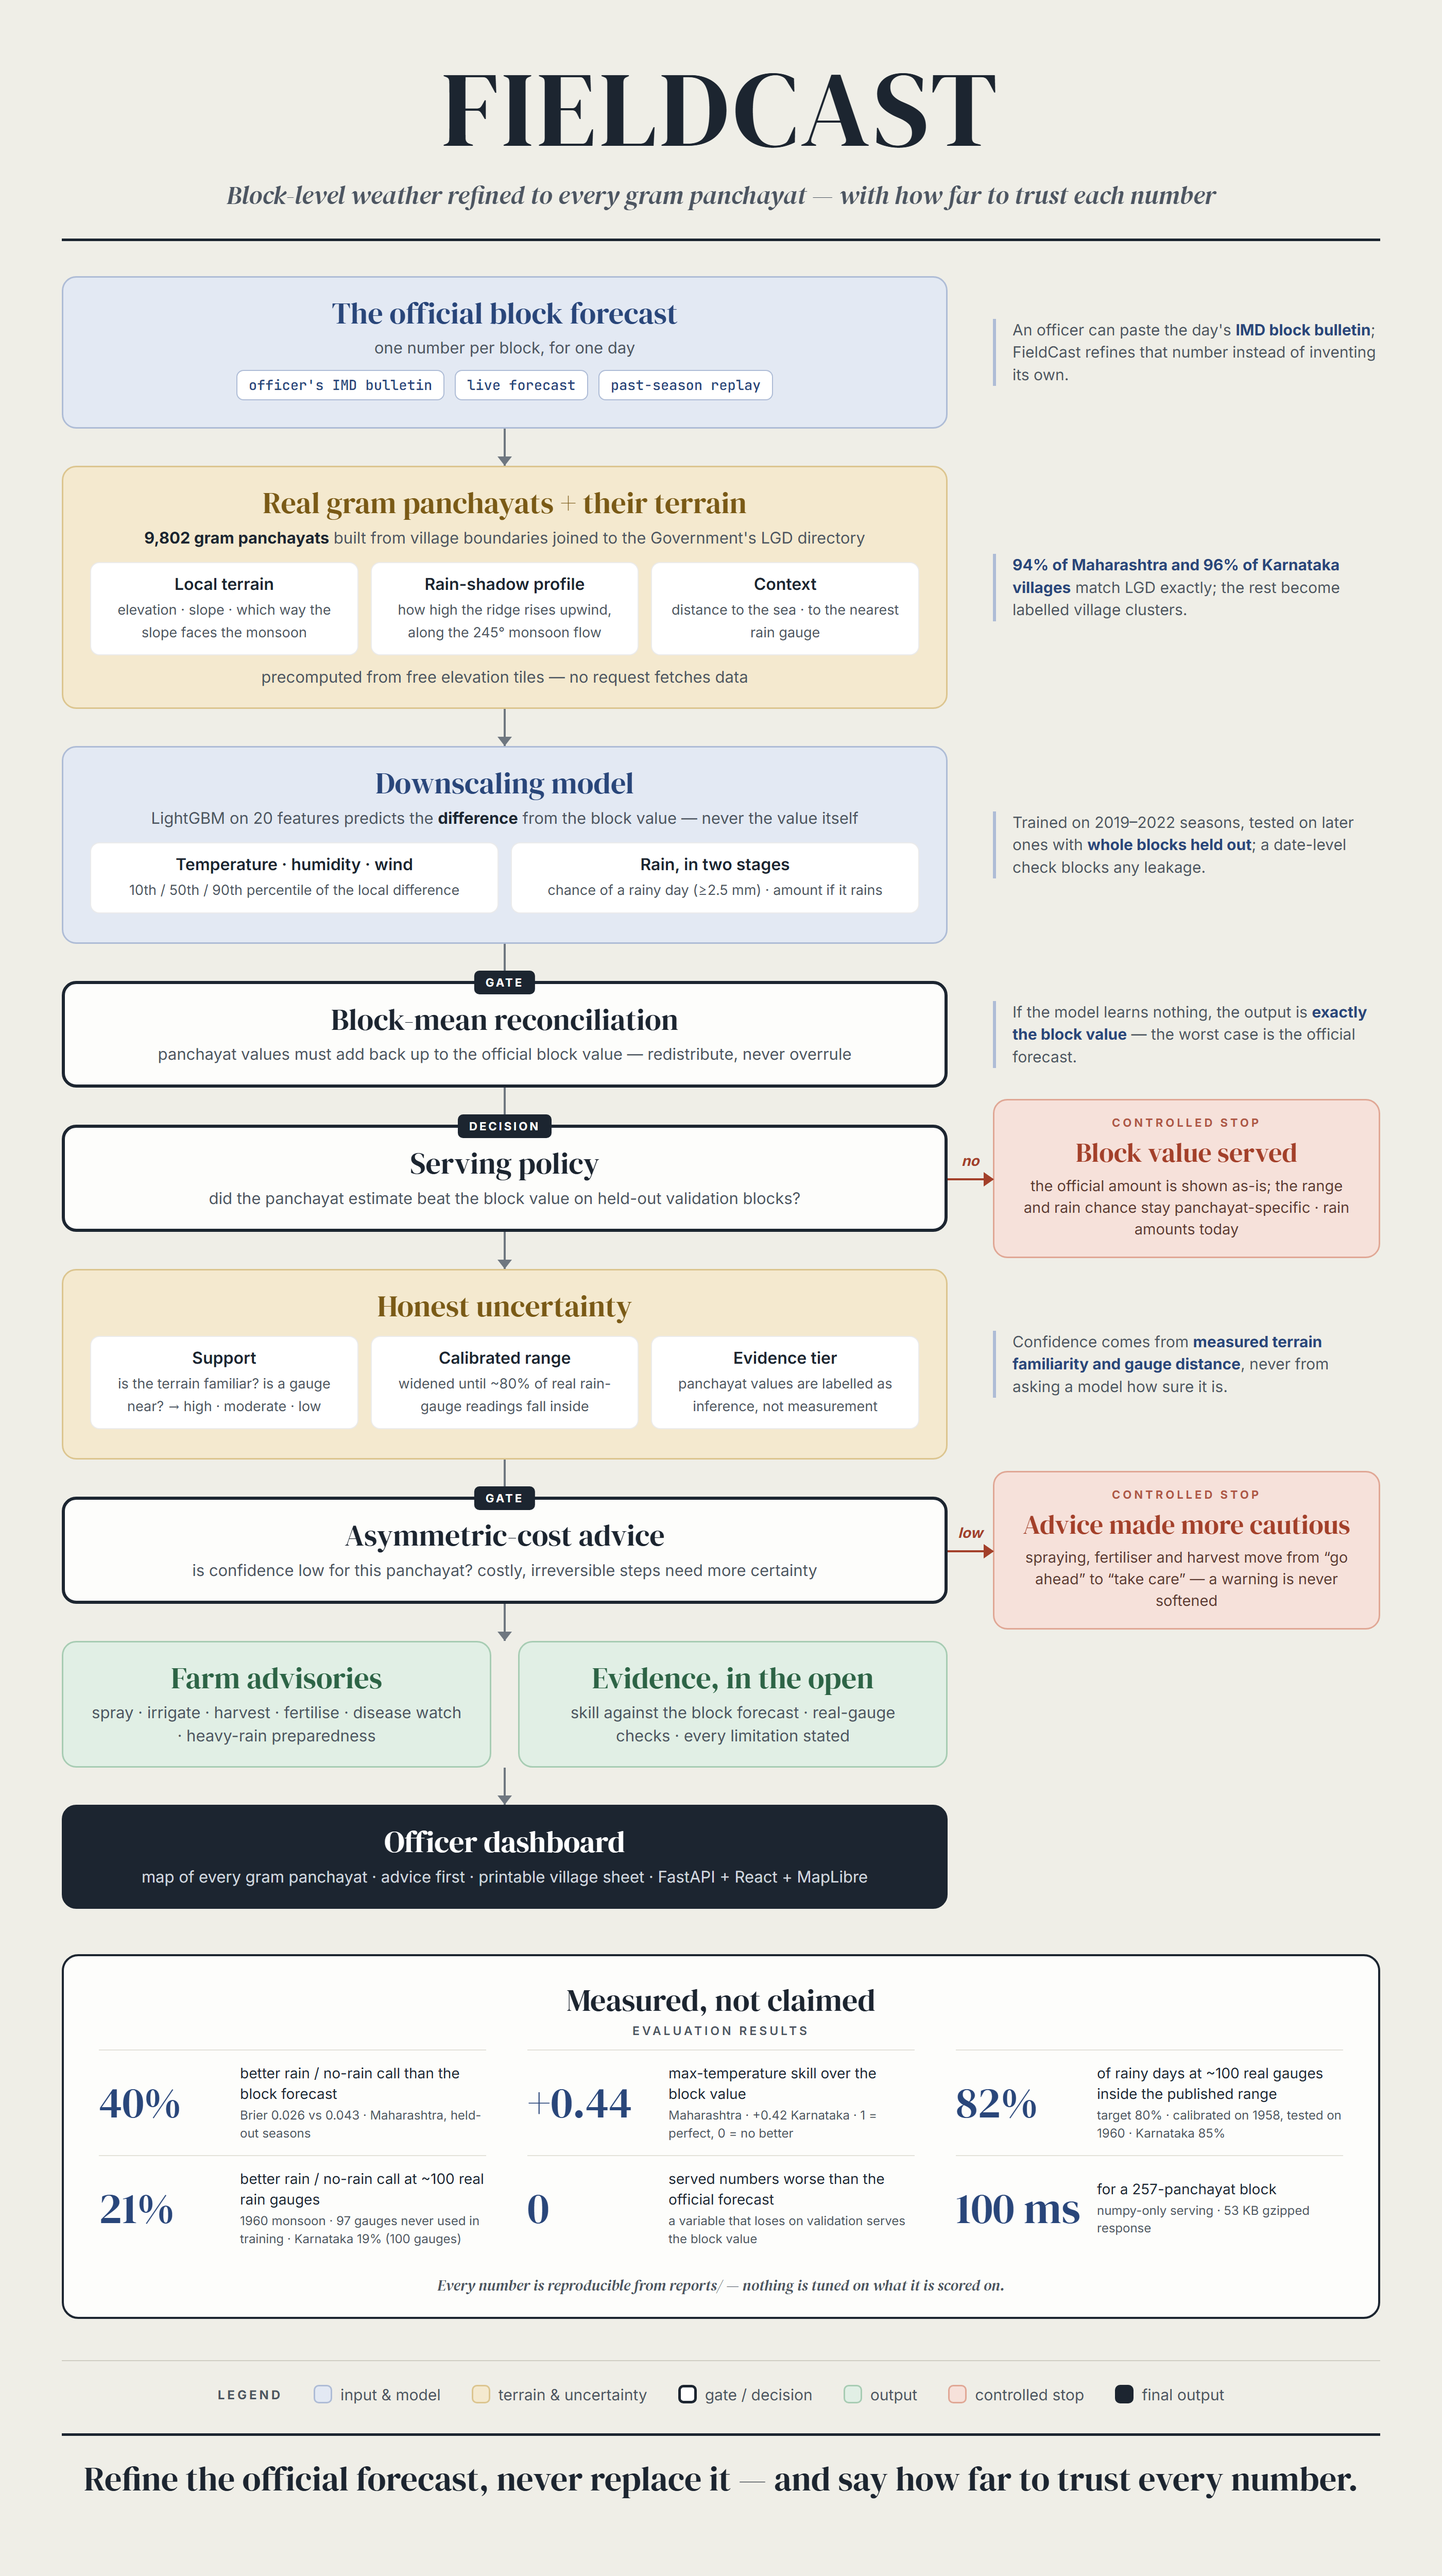
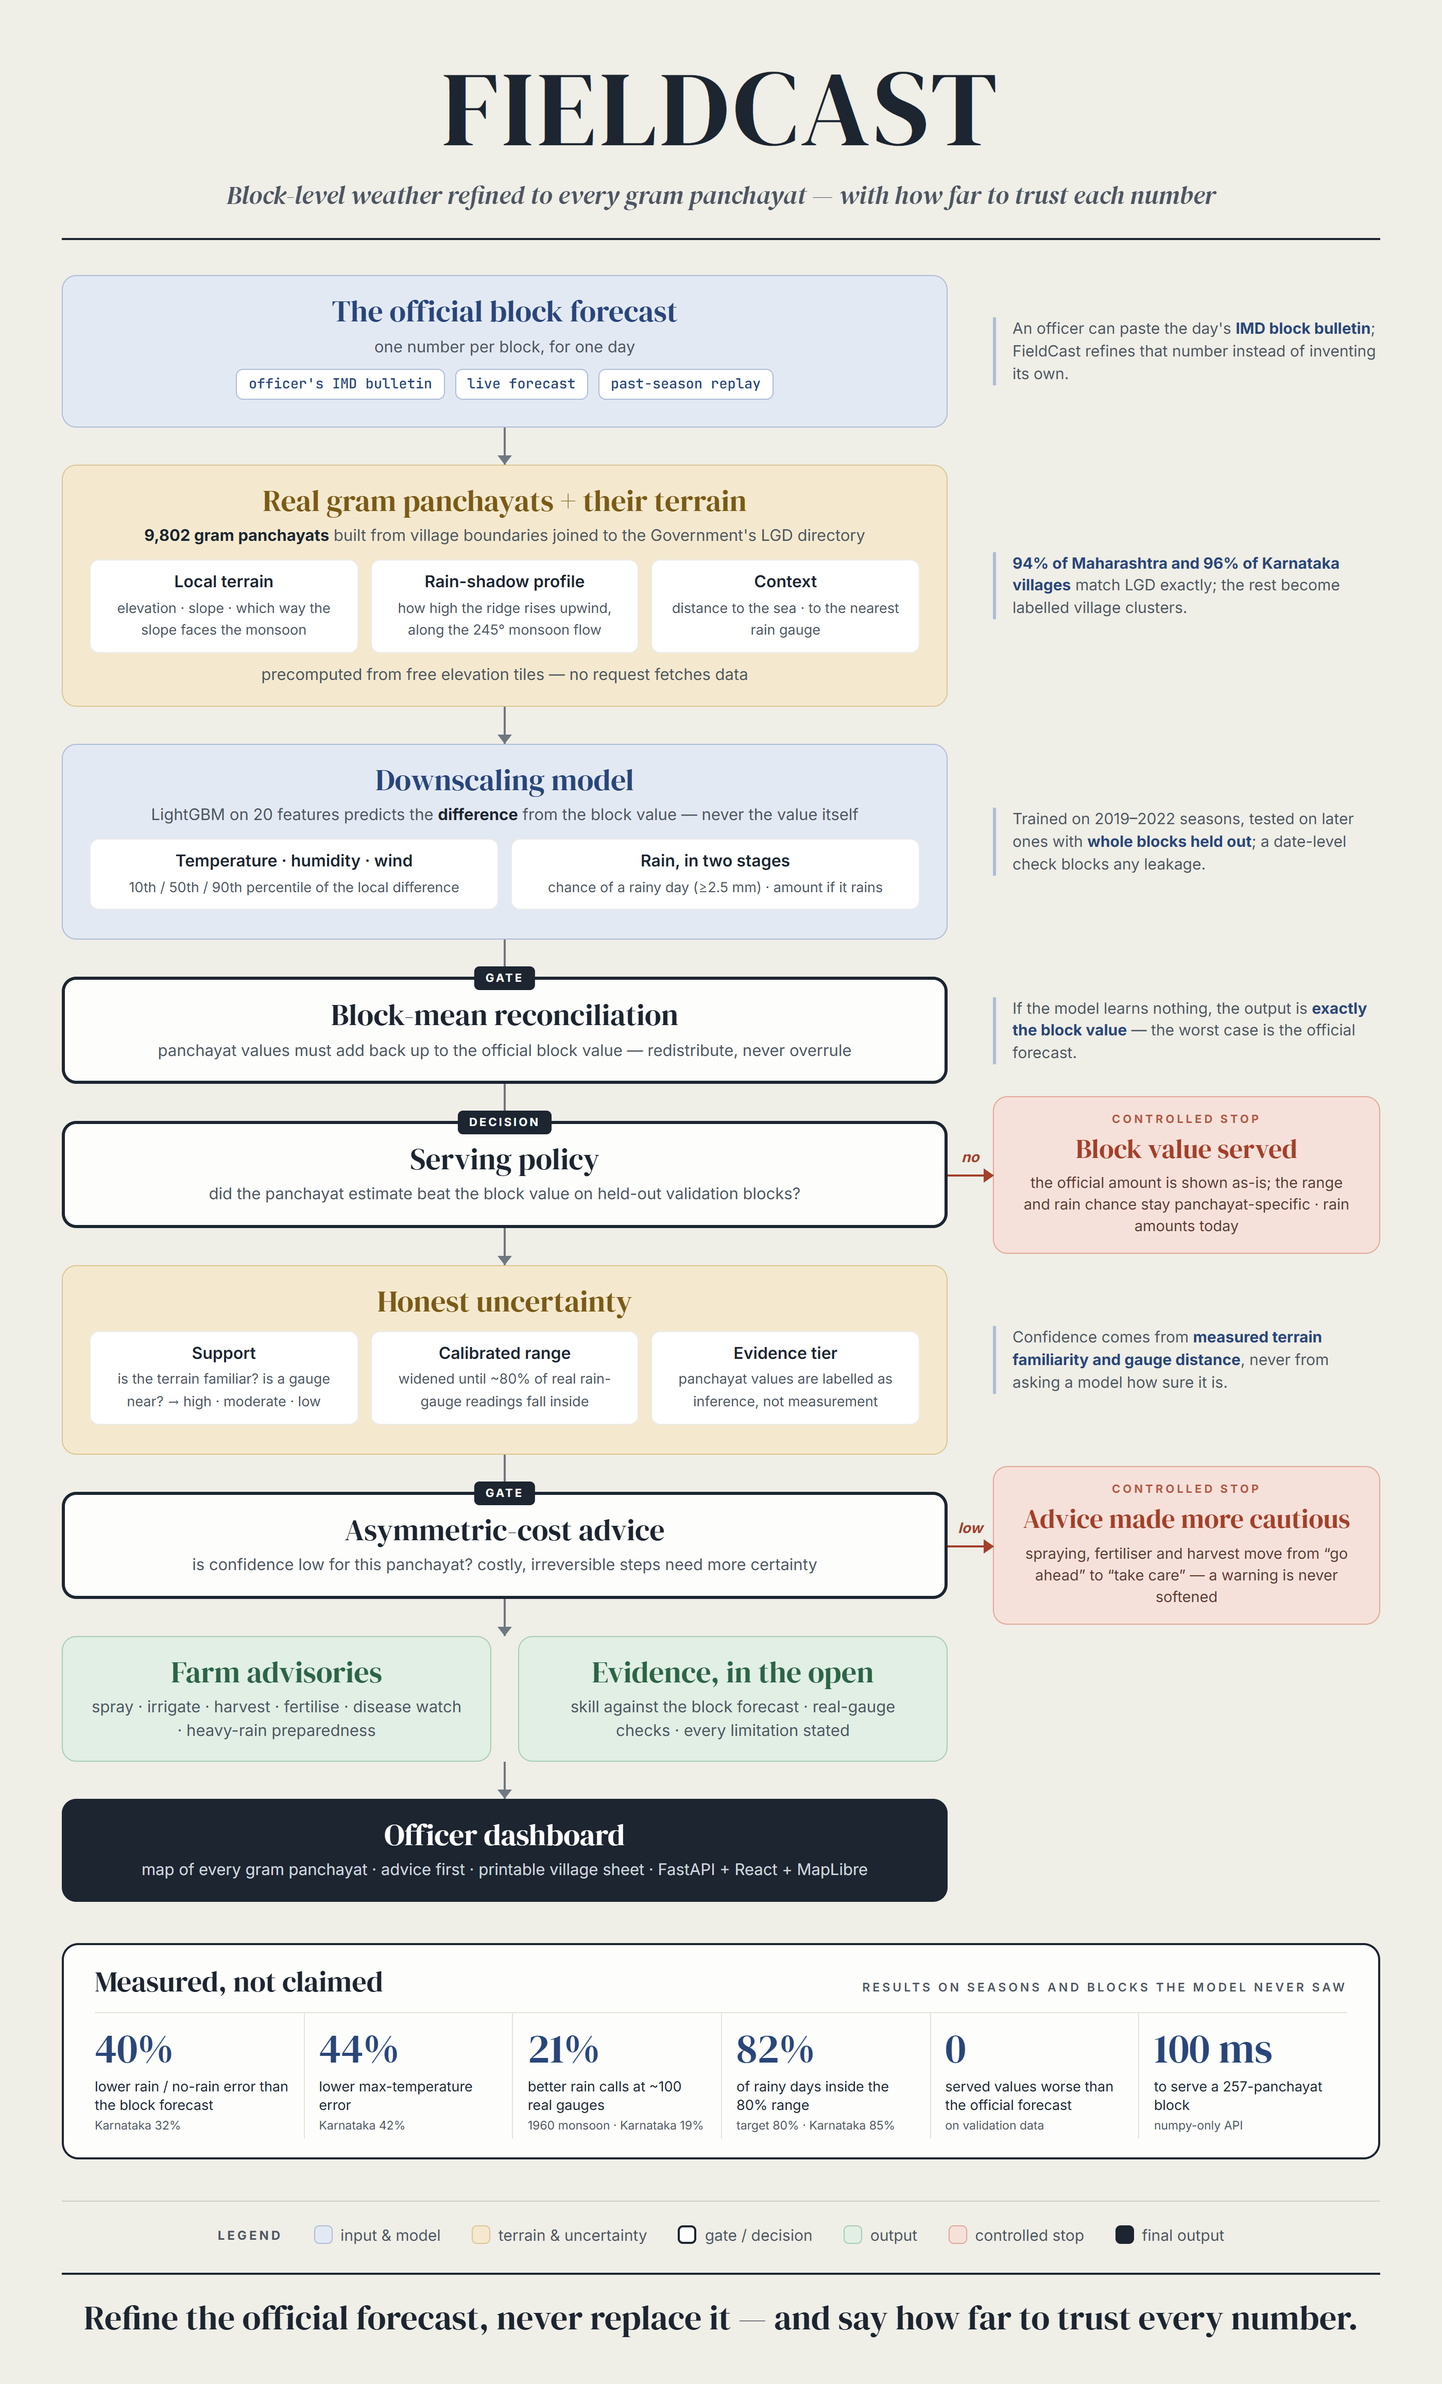
Compact the flowchart's results panel into one row
Six plain-language tiles in the post's wording (e.g. 44% lower
max-temperature error instead of +0.44 skill), and render at the page's
exact height so the poster has no blank tail.

diff --git a/docs/flowchart/fieldcast-flowchart.html b/docs/flowchart/fieldcast-flowchart.html
@@ -64,15 +64,16 @@
   .pair { display: grid; grid-template-columns: 1fr 1fr; gap: 26px; }
 
   /* Right column */
-  .measured { margin-top: 44px; background: var(--white); border: 2px solid var(--ink); border-radius: 16px; padding: 26px 34px 20px; }
-  .stats { display: grid; grid-template-columns: repeat(3, 1fr); column-gap: 40px; }
-  .measured h3 { font: 400 30px/1.1 "DM Serif Display", Georgia, serif; text-align: center; }
-  .measured .kicker { text-align: center; font: 600 11.5px/1 Inter; letter-spacing: 2.5px; color: var(--muted); margin: 8px 0 12px; }
-  .stat { display: grid; grid-template-columns: 125px 1fr; align-items: center; gap: 12px; padding: 12px 0; border-top: 1px solid #e3e2da; }
-  .stat .n { font: 400 42px/1 "DM Serif Display", Georgia, serif; color: var(--blue-ink); }
-  .stat .d { font-size: 14px; color: var(--ink); }
-  .stat .d small { display: block; color: var(--muted); font-size: 12px; margin-top: 2px; }
-  .note { margin-top: 14px; text-align: center; font: italic 15px/1.4 "DM Serif Display", Georgia, serif; color: var(--muted); }
+  .measured { margin-top: 40px; background: var(--white); border: 2px solid var(--ink); border-radius: 16px; padding: 20px 30px 18px; }
+  .measured-head { display: flex; align-items: baseline; justify-content: space-between; gap: 20px; margin-bottom: 14px; }
+  .measured h3 { font: 400 28px/1.1 "DM Serif Display", Georgia, serif; }
+  .measured .kicker { font: 600 11.5px/1 Inter; letter-spacing: 2.5px; color: var(--muted); }
+  .stats { display: grid; grid-template-columns: repeat(6, 1fr); border-top: 1px solid #e3e2da; }
+  .stat { padding: 14px 14px 4px; border-left: 1px solid #e3e2da; }
+  .stat:first-child { border-left: 0; padding-left: 0; }
+  .stat .n { font: 400 40px/1 "DM Serif Display", Georgia, serif; color: var(--blue-ink); }
+  .stat .d { margin-top: 8px; font-size: 13.5px; line-height: 1.35; color: var(--ink); }
+  .stat .d small { display: block; color: var(--muted); font-size: 11.5px; margin-top: 4px; }
 
   .stop { position: absolute; left: 0; right: 0; background: var(--red-bg); border: 1.5px solid var(--red-bd);
           border-radius: 14px; padding: 16px 22px; text-align: center; }
@@ -212,17 +213,18 @@
   </div>
 
   <section class="measured" id="measured">
-    <h3>Measured, not claimed</h3>
-    <div class="kicker">EVALUATION RESULTS</div>
-    <div class="stats">
-      <div class="stat"><div class="n" data-k="rain">40%</div><div class="d">better rain / no-rain call than the block forecast<small data-k="rain-note">Brier 0.026 vs 0.043 · Maharashtra, held-out seasons</small></div></div>
-      <div class="stat"><div class="n" data-k="tmax">+0.44</div><div class="d">max-temperature skill over the block value<small data-k="tmax-note">Maharashtra · +0.42 Karnataka · 1 = perfect, 0 = no better</small></div></div>
-      <div class="stat"><div class="n" data-k="cov">82%</div><div class="d">of rainy days at ~100 real gauges inside the published range<small data-k="cov-note">target 80% · calibrated on 1958, tested on 1960 · Karnataka 85%</small></div></div>
-      <div class="stat"><div class="n" data-k="gauges">21%</div><div class="d">better rain / no-rain call at ~100 real rain gauges<small data-k="gauges-note">1960 monsoon · 97 gauges never used in training · Karnataka 19% (100 gauges)</small></div></div>
-      <div class="stat"><div class="n">0</div><div class="d">served numbers worse than the official forecast<small>a variable that loses on validation serves the block value</small></div></div>
-      <div class="stat"><div class="n">100 ms</div><div class="d">for a 257-panchayat block<small>numpy-only serving · 53 KB gzipped response</small></div></div>
+    <div class="measured-head">
+      <h3>Measured, not claimed</h3>
+      <span class="kicker">RESULTS ON SEASONS AND BLOCKS THE MODEL NEVER SAW</span>
     </div>
-    <p class="note">Every number is reproducible from reports/ — nothing is tuned on what it is scored on.</p>
+    <div class="stats">
+      <div class="stat"><div class="n">40%</div><div class="d">lower rain / no-rain error than the block forecast<small>Karnataka 32%</small></div></div>
+      <div class="stat"><div class="n">44%</div><div class="d">lower max-temperature error<small>Karnataka 42%</small></div></div>
+      <div class="stat"><div class="n">21%</div><div class="d">better rain calls at ~100 real gauges<small>1960 monsoon · Karnataka 19%</small></div></div>
+      <div class="stat"><div class="n">82%</div><div class="d">of rainy days inside the 80% range<small>target 80% · Karnataka 85%</small></div></div>
+      <div class="stat"><div class="n">0</div><div class="d">served values worse than the official forecast<small>on validation data</small></div></div>
+      <div class="stat"><div class="n">100 ms</div><div class="d">to serve a 257-panchayat block<small>numpy-only API</small></div></div>
+    </div>
   </section>
 
   <footer>
